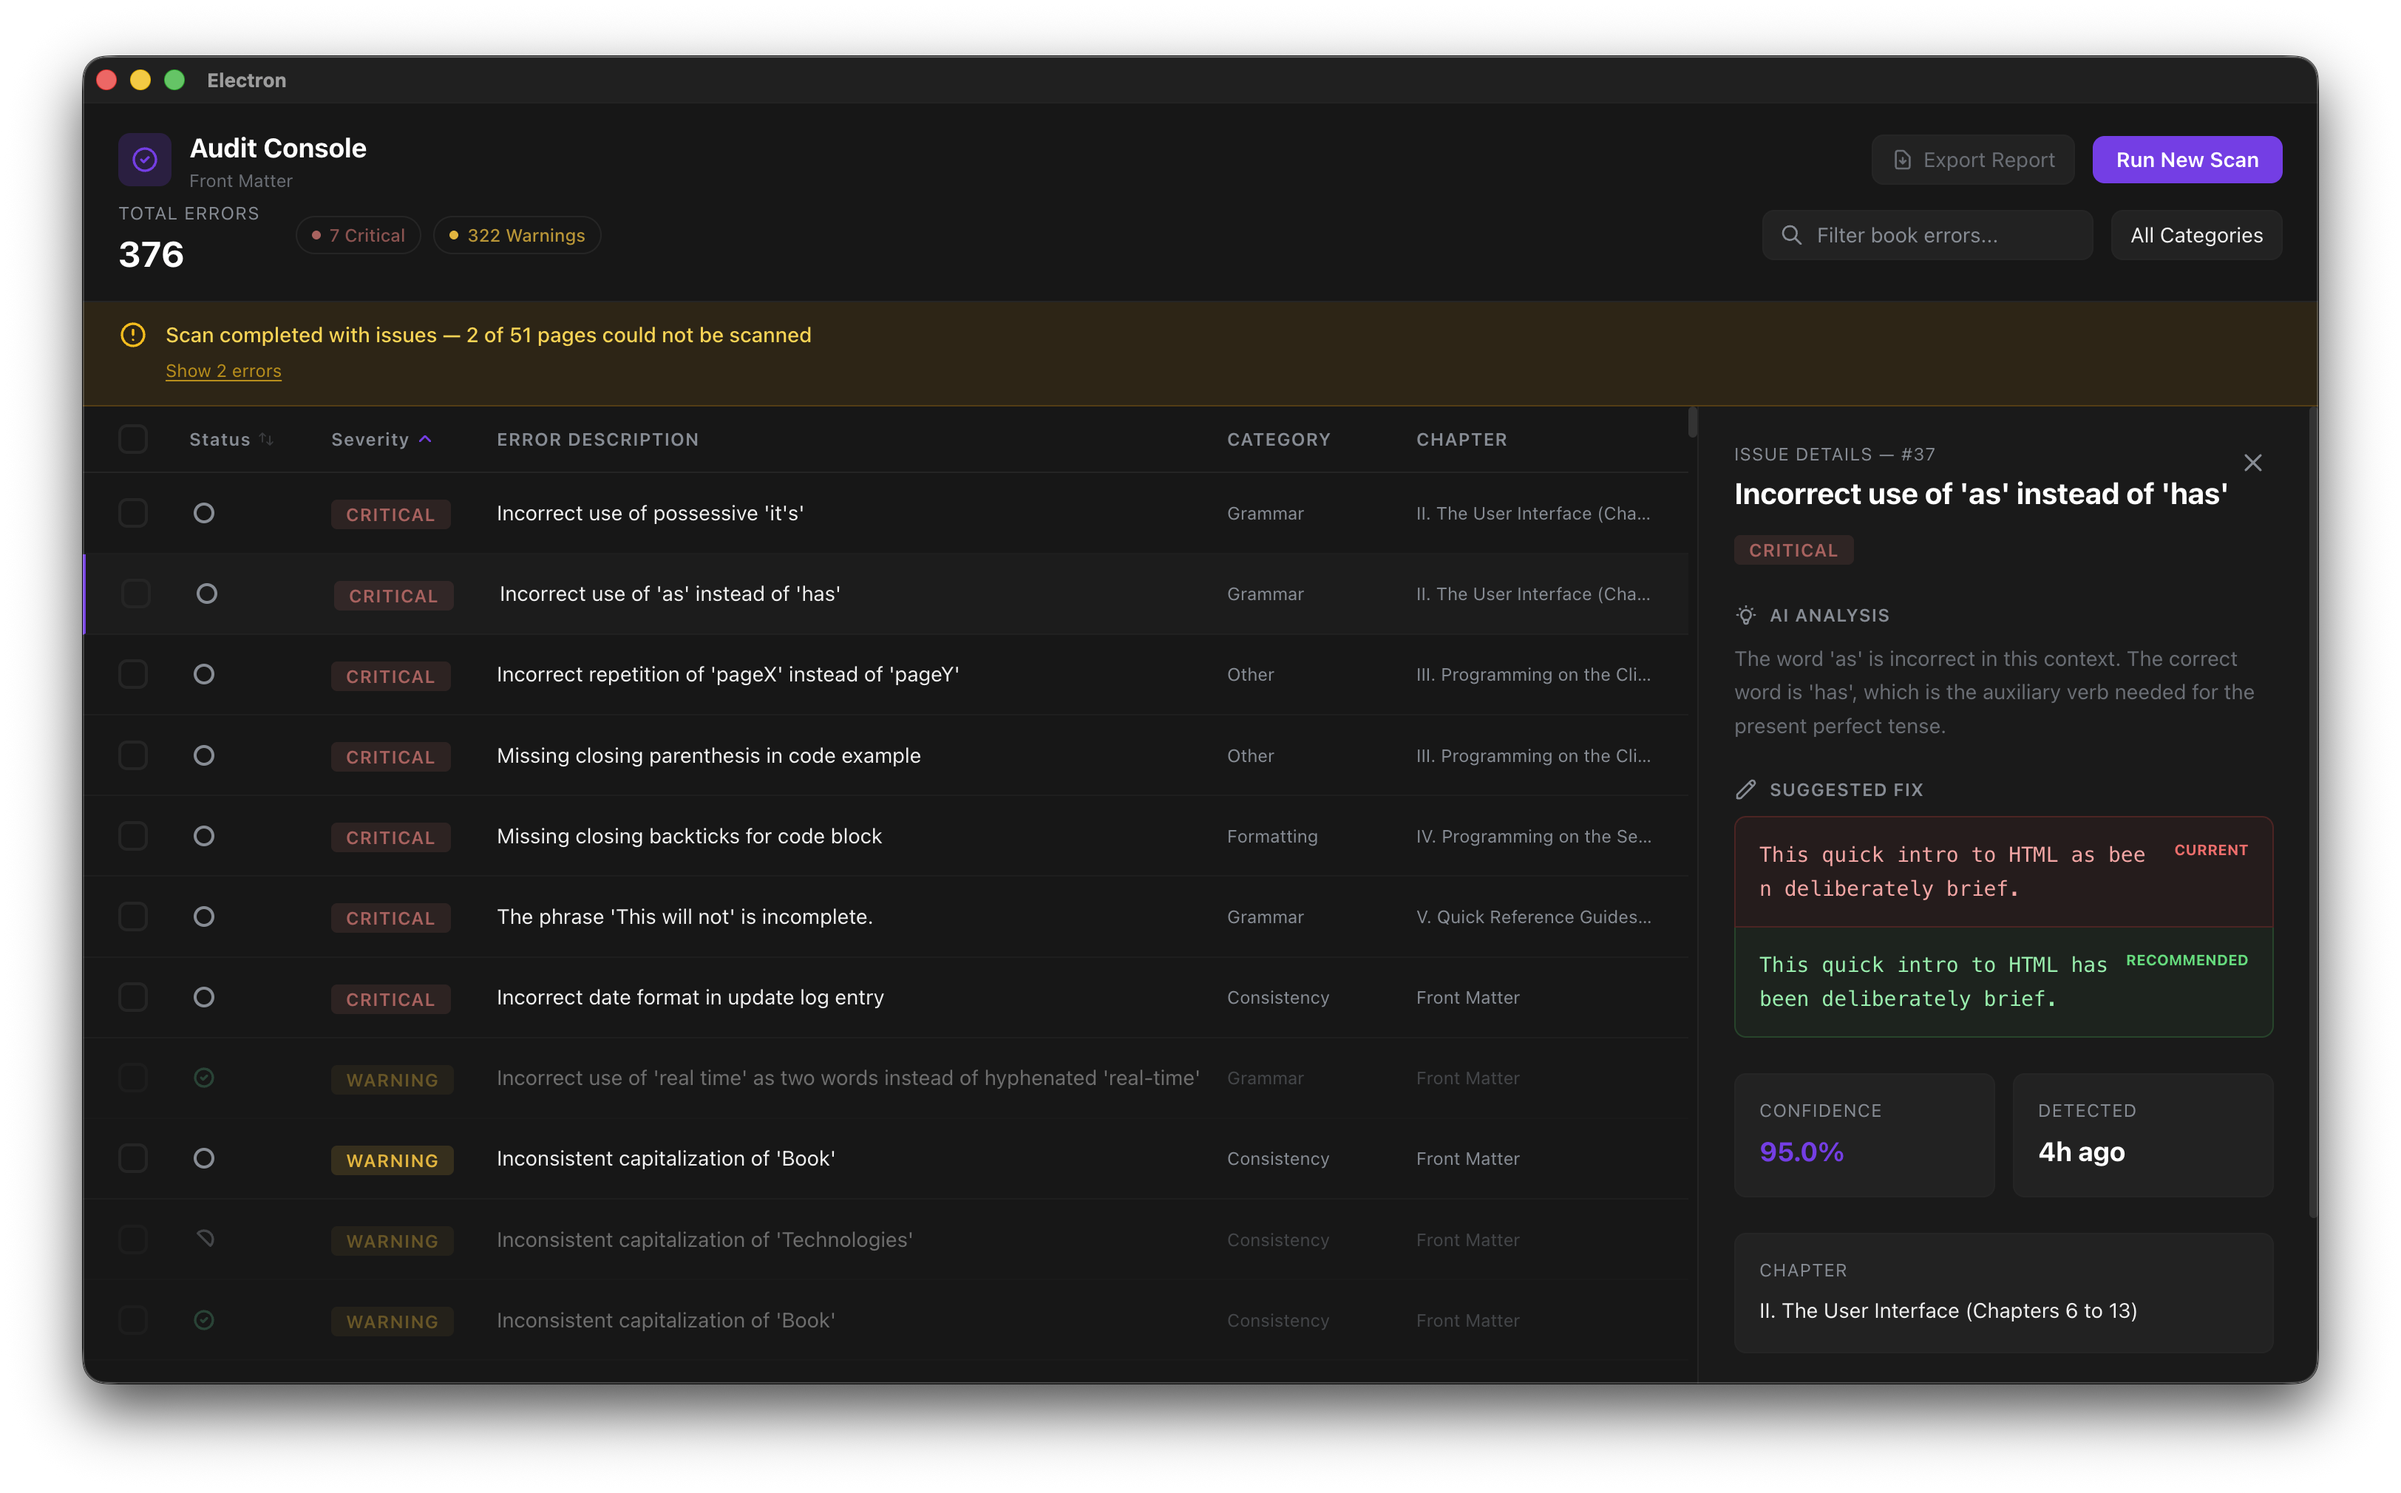
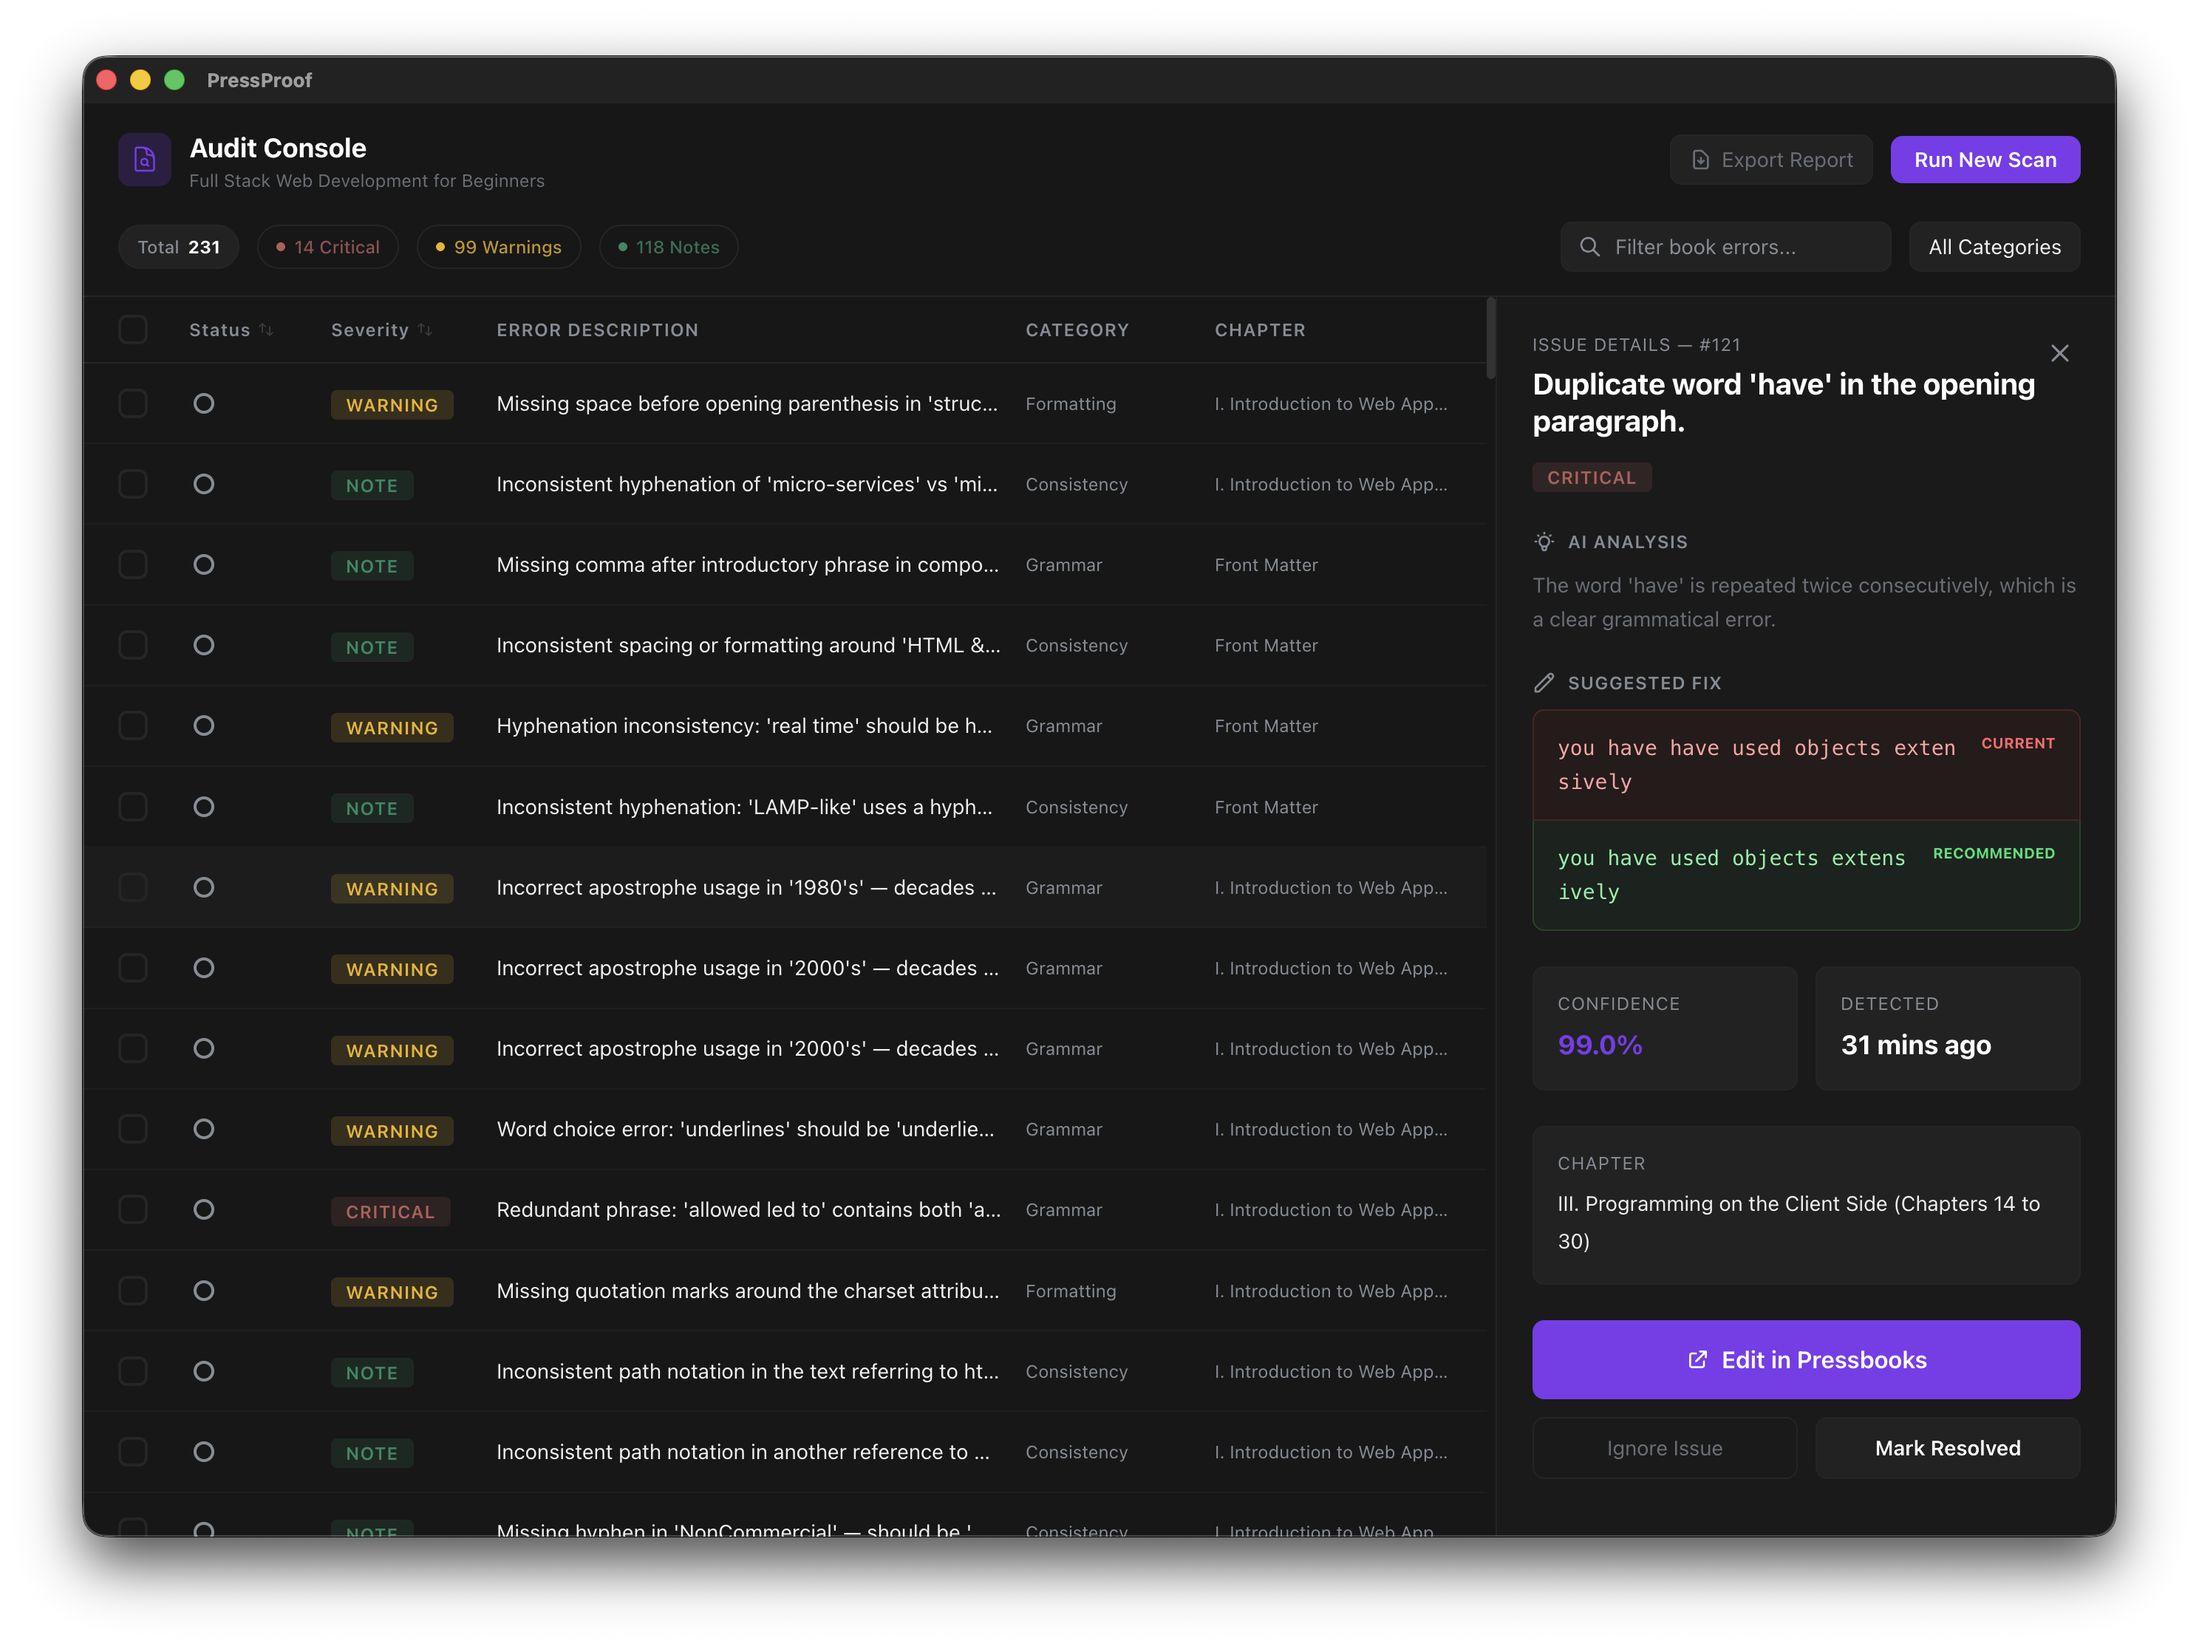
Updated README with import export instructions
- README.md now has import export instructions
- Updated images

diff --git a/README.md b/README.md
@@ -9,7 +9,7 @@ An open source proofreading tool designed for proofreading pressbook books. Give
 ## Setup and Usage
 Download the respective build for your operating system from the latest PressProof release. Upon launching the app, you will be given the option to create a new audit. Before we can do so, please first navigate to `Manage API Keys` and add the respecive API keys needed for your LLM of choice. After doing so, you can simply provide the [base URL](https://ecampusontario.pressbooks.pub/businessfuncdn/) to any PressBook in order to begin an audit. Note that you can select the page range as well as provide extra instructions to the LLM for the scan (keep minimal to preserve context).
 
-### Models
+### Mode;s
 Pressproof now offers a range of models from both OpenAI and Claude, each with their own benefits as detailed below. 
 
 
@@ -19,6 +19,9 @@ Pressproof now offers a range of models from both OpenAI and Claude, each with t
 | OpenAI | GPT-4o Mini | Works well and is extremely cost effective however, it may not be as thourough as the non-mini model. | $ | |
 | Claude |  Sonnet 4.6 | Proved to provide higher level of detail in comparison to OpenAI models however, this model was significantly more expensive to run in comparison to GPT-4o  | $$$ | |
 | Claude | Haiku 4.5 | Proved to provide higher level of detail in comparison to OpenAI models while still remaining as cost effective as GPT-4o Mini | $ | ⭐ |
+
+### Exporting/Importing Audits
+PressProof importing and exporting audits. In order to export an audit, open it inside PressProof, and select "Export Audit". This will export the audit as a JSON file which can be imported via the import button located on the top right of the home page. Note that the JSON also maintains changes to the status of each issue.  
 
 ## Build PressProof
 Running and building the app from source can be done like so.
